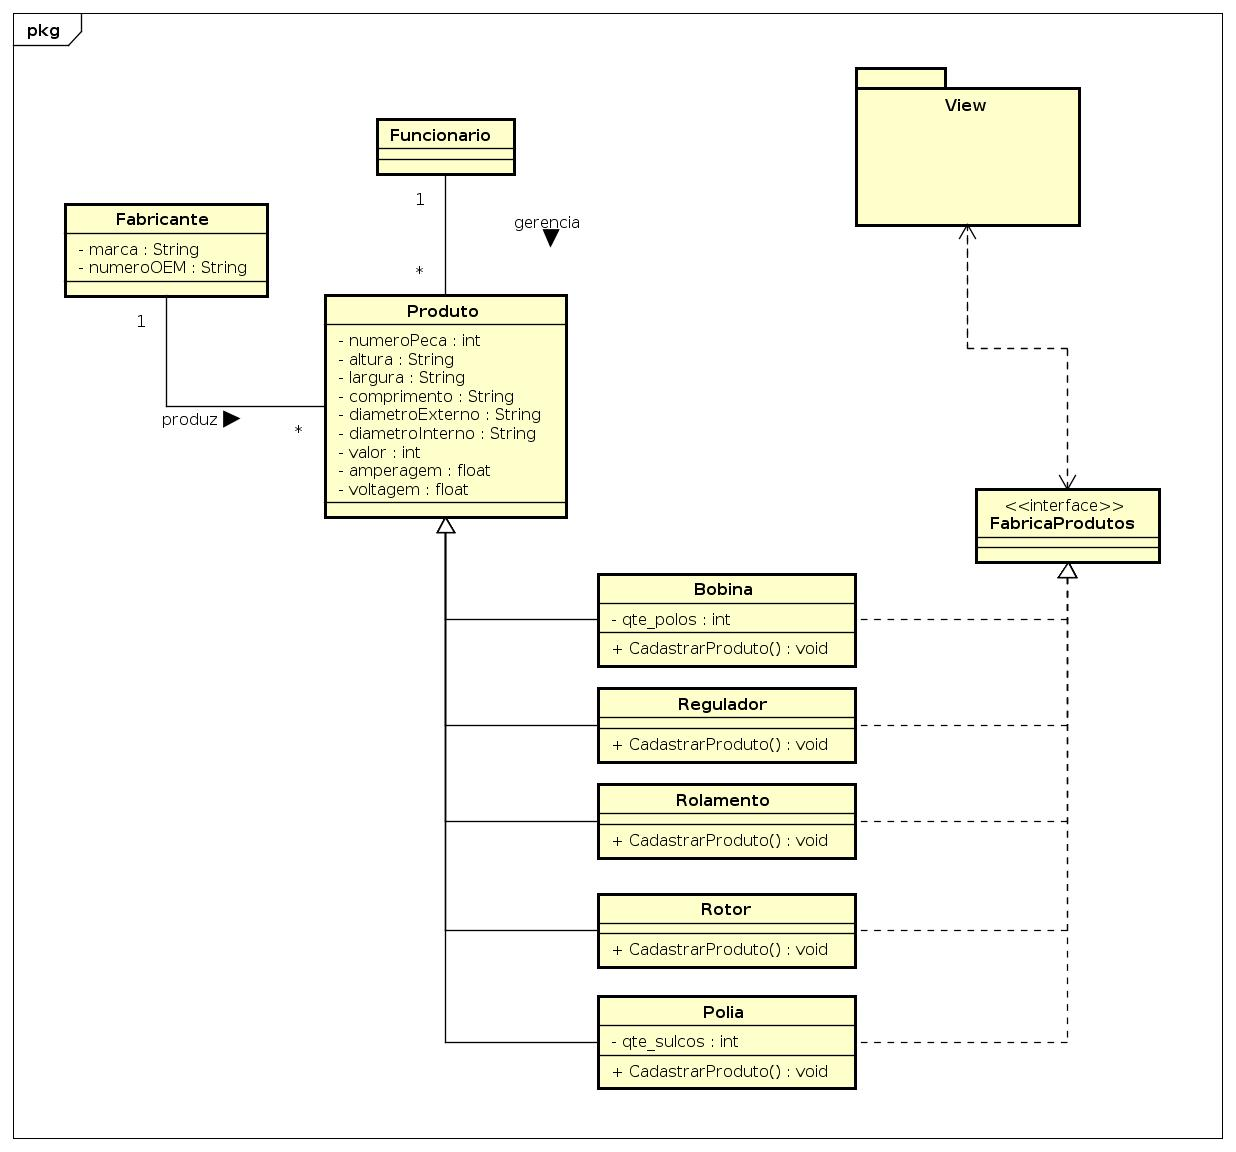
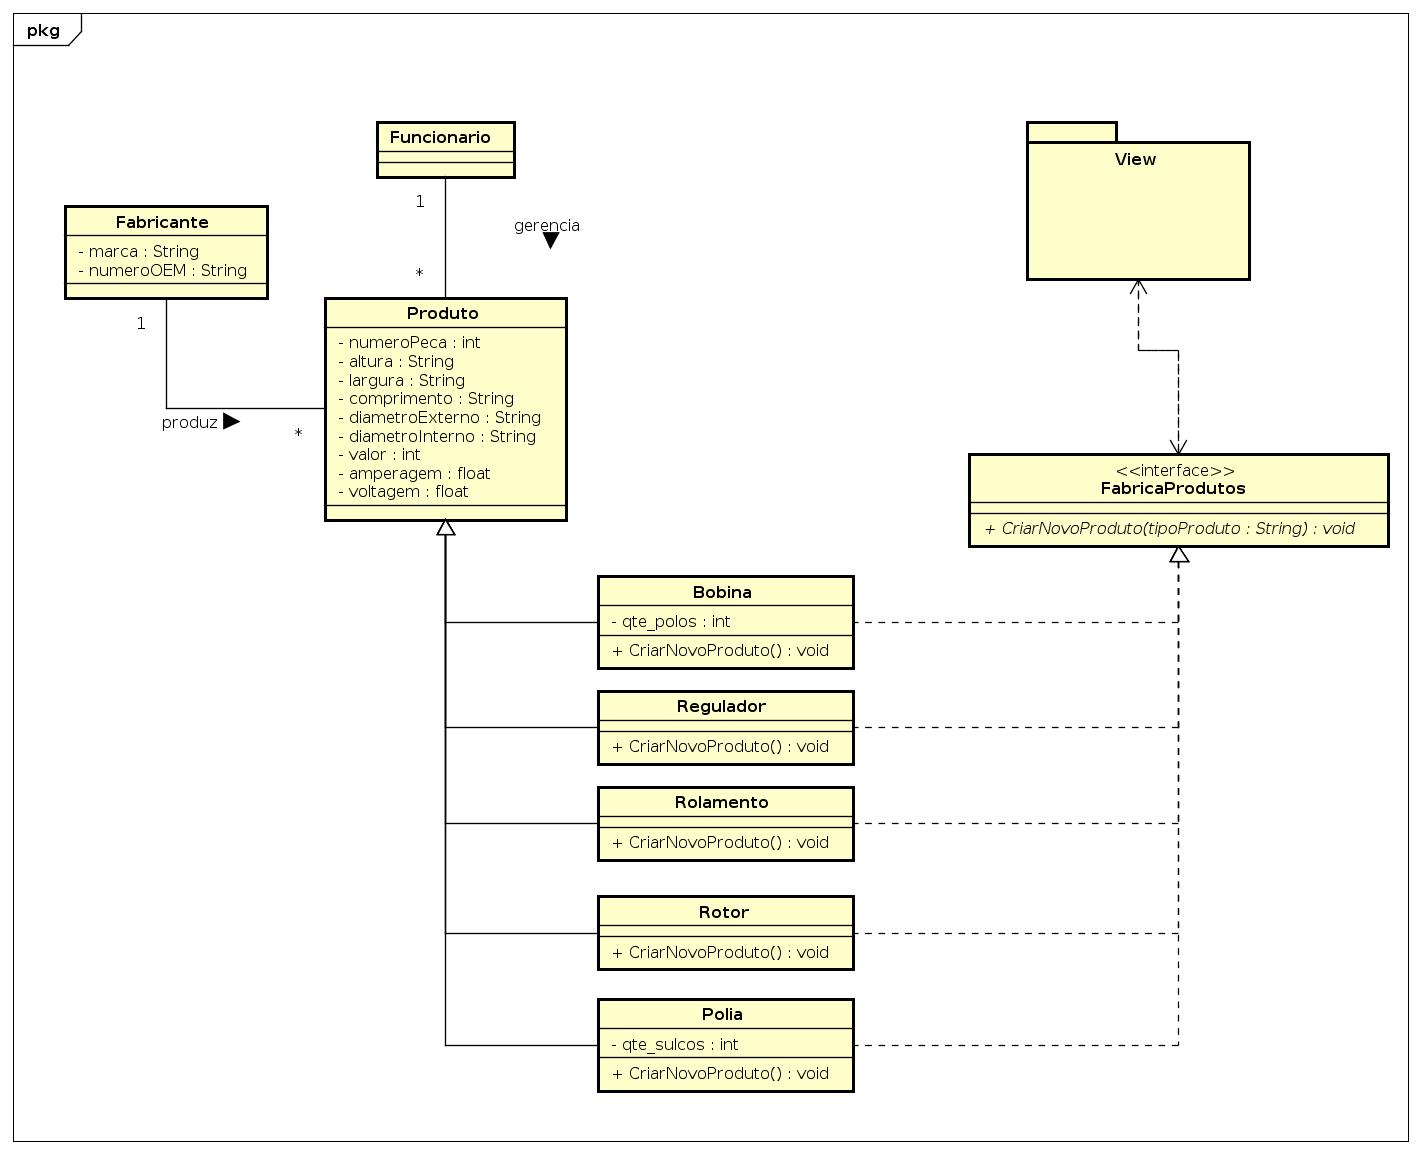
correção de diagrama

diff --git a/poo2/diario_de_bordo.md b/poo2/diario_de_bordo.md
@@ -17,4 +17,5 @@ Uma descrição breve das atividades feitas, por quem foi feita e o dia que foi 
 |modelagem de um banco de dados na aplicação BR modelo|03/04/2019|
 |termino do modelo lógico do banco feito por marcelo mendes|05/04/2019|
 |revisão do modelo do diagrama de classe apagando um monte de besteira dos outros por marcelo|06/04/2019|
-apilcação do metodo fábrica dentro do projeto na parte de cadastro de produtos e atualização da documentação por marcelo mendes|07/04/2019| 
+|apilcação do metodo fábrica dentro do projeto na parte de cadastro de produtos e atualização da documentação por marcelo mendes|07/04/2019| 
+|validado com o professor felipe o modelo do padrão fábrica e feito alterações sugeridas por ele |10/04/2019|
